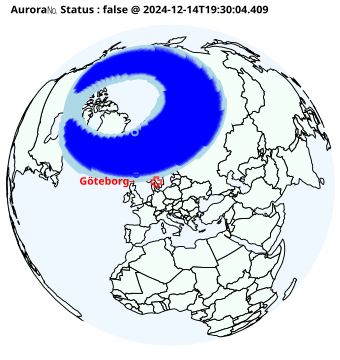
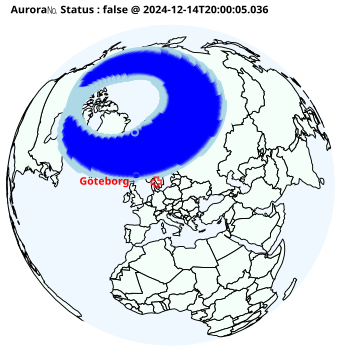
20241214200018 added aur.html

diff --git a/aur.html b/aur.html
@@ -7,6 +7,6 @@
 <body>
     <h1>Aurora Watch</h1>
     <img src="a.png" alt="Aurora Image" style="width:100%;max-width:600px;">
-    <p>Aurora Level 🌌= (1.5) was observed. (2024-12-14T19:30:04.409)</p>
+    <p>Aurora Level 🌌= (1.5) was observed. (2024-12-14T20:00:05.036)</p>
 </body>
 </html>
